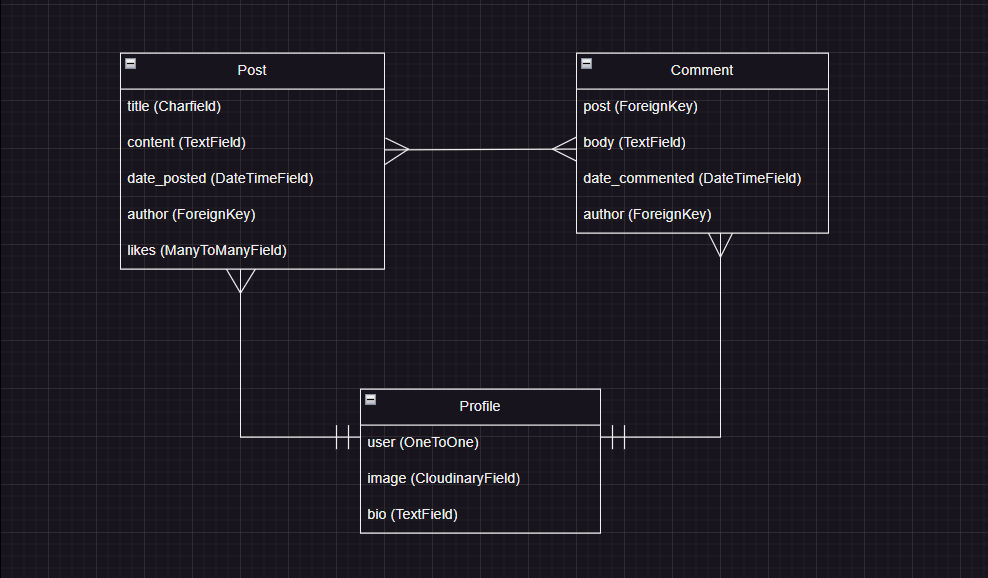
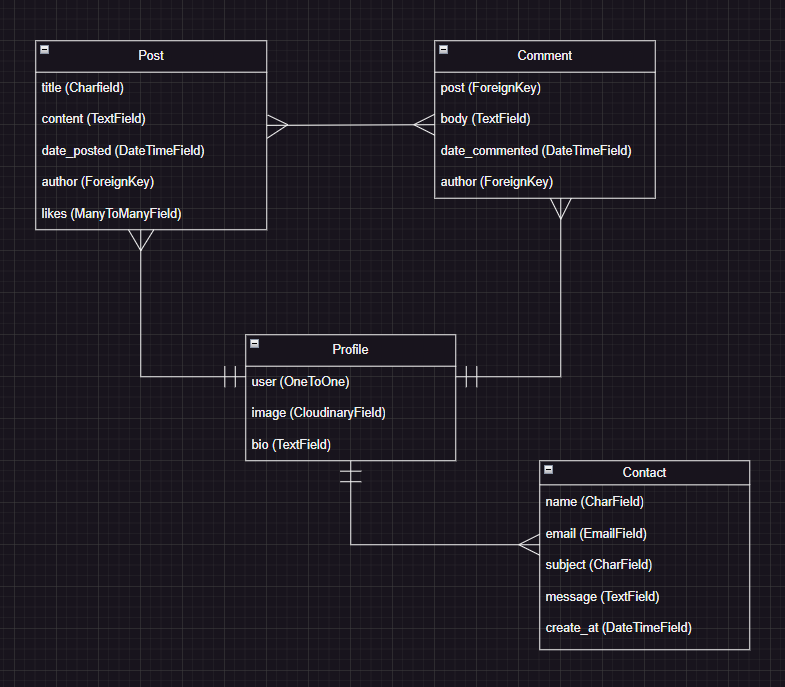
update readme.md

Changed region(s): [[0.0306, 0.0311, 0.9783, 0.9654], [0.3669, 0.872, 0.6115, 0.9343]]

diff --git a/blog/views.py b/blog/views.py
@@ -32,6 +32,22 @@ def about(request):
     return render(request, 'blog/about.html', {'title': 'About'})
 
 
+# Contact Views
+def contact(request):
+    if request.method == 'POST':
+        form = ContactForm(request.POST)
+        if form.is_valid():
+            form.save()
+            return render(request, 'blog/contact_success.html')
+    else:
+        form = ContactForm()
+    
+    context = {
+        'form': form,
+    }
+    return render(request, 'blog/contact.html', context)
+
+
 # 404
 def error_404(request, exception):
     return render(request, '404.html', status=404)
@@ -170,19 +186,3 @@ def LikeView(request, pk):
         liked = True
 
     return HttpResponseRedirect(reverse('post-detail', args=[str(pk)]))
-
-
-# Contact Views
-def contact(request):
-    if request.method == 'POST':
-        form = ContactForm(request.POST)
-        if form.is_valid():
-            form.save()
-            return render(request, 'blog/contact_success.html')
-    else:
-        form = ContactForm()
-    
-    context = {
-        'form': form,
-    }
-    return render(request, 'blog/contact.html', context)

diff --git a/README.md b/README.md
@@ -65,7 +65,7 @@ The Website can be more or less defined for its complexity like this:
 ## Relationship Diagram
 
 The relationship diagram between models are straight and to the Point.
-The Profile associated to a User creates Posts and can make Comments to a particluar Post.
+From an individual perspective a single Profile associated to a User can create multiples Posts and can write multiple Comments to multiple Posts.
 
 - A Post created by a User, features the Title(Charfield), Content(TextField), Date Posted(DateTimeField), name of the Author(ForeignKey) and Likes(ManyToManyFieldd) once submited.
 - The Comments model takes a similar approach, inheriting the Post(ForeignKey) and displaying the Body(TextField) of the comment, Date Commented(dateTimeField) and once again the Author(ForeignKey) of the comment.
@@ -206,7 +206,7 @@ For this purpose, the project was illustrated by one Milestone entitled "Submit 
 Throughout the development process, new issues were added/removed, starting from "Todo," progressing to "In Progress," and finally being finalized in "Done".
 The issues were assigned to the sole developer and labeled as "could-have," "should-have,", "must-have" and "won't -have".
 
-In order of priority, with 23 User Stories, the [Project](https://github.com/users/TiagoMA90/projects/7/views/1) has:
+In order of priority, with 24 User Stories, the [Project](https://github.com/users/TiagoMA90/projects/7/views/1) has:
 ## must-have:
 - Register a user account
 - Log into a User account
@@ -232,6 +232,7 @@ In order of priority, with 23 User Stories, the [Project](https://github.com/use
 - Filter Posts through the Search bar
 - Fileter Post by Username
 - Read the About section
+- Submit Feedback via Contact Us
 ## wont-have
 - Create Posts using ckeditor
 
